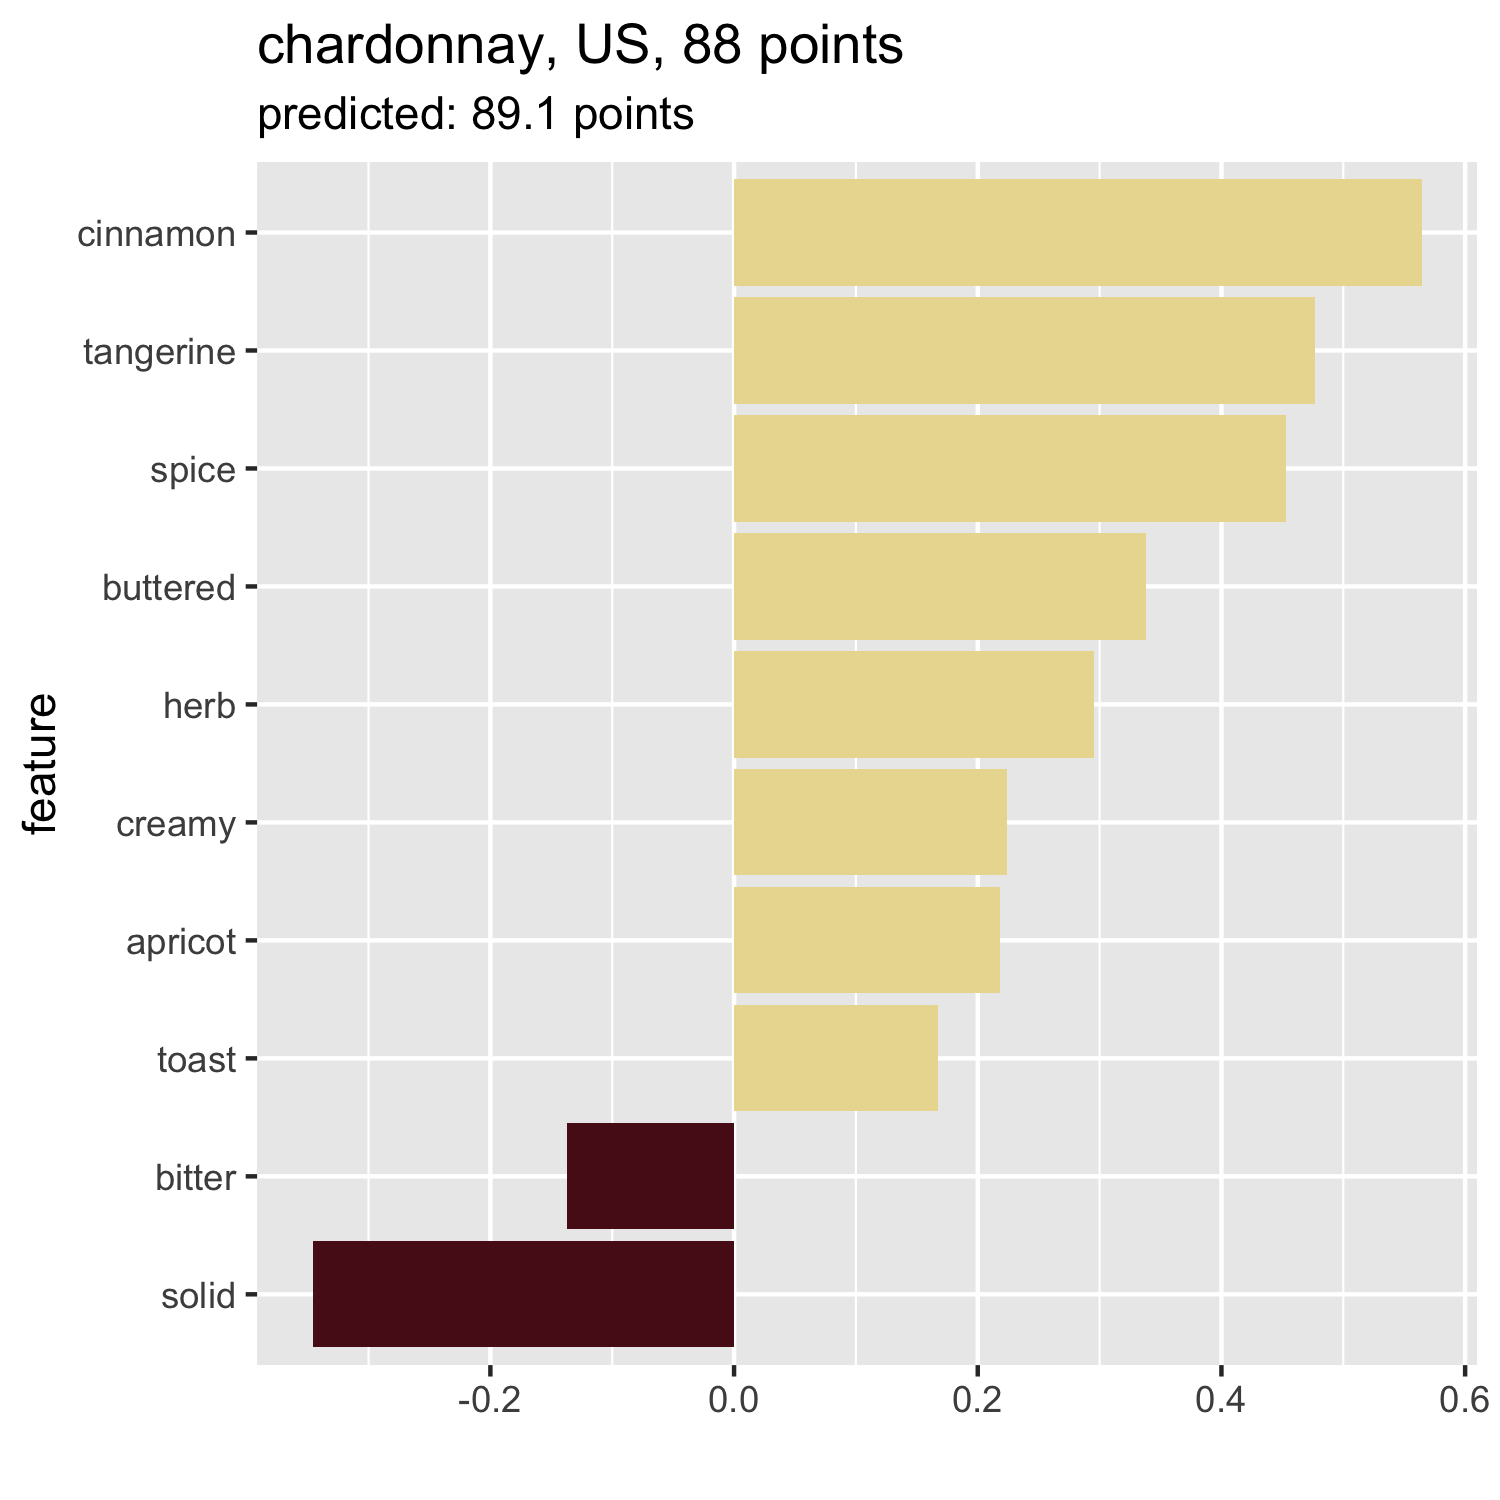
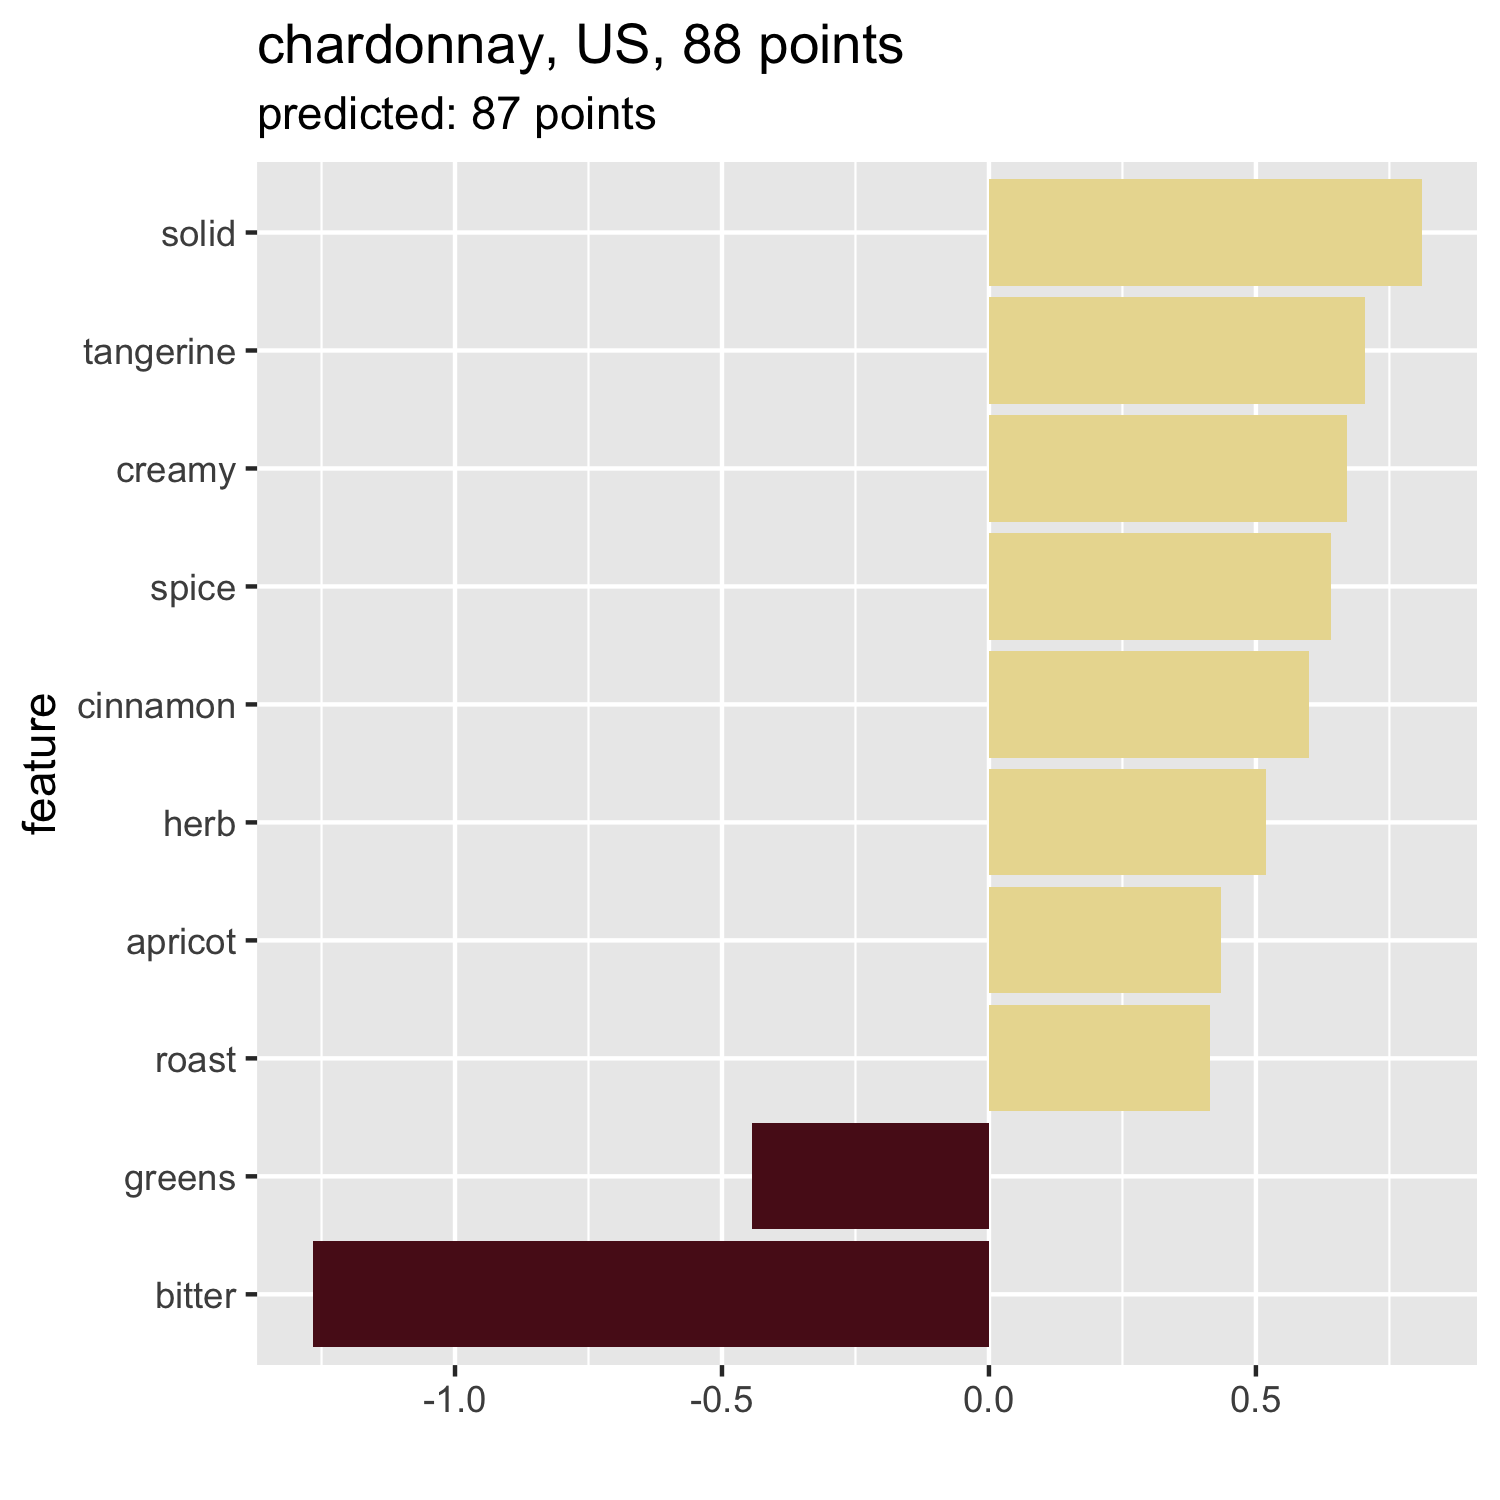
Split into test and train

diff --git a/2019-04-10_melburn-wine.html b/2019-04-10_melburn-wine.html
@@ -400,6 +400,19 @@ wine_2grams %&gt;%
 
 ---
 class: inverse
+## Train and test
+
+We're about to do some modelling, so let's prepare our train and test sets.
+
+
+```r
+wine_split &lt;- rsample::initial_split(wine, strata = "colour", p = 0.80)
+wine_train &lt;- rsample::training(wine_split)
+wine_test &lt;- rsample::testing(wine_split)
+```
+
+---
+class: inverse
 ## Vectorising
 
 We'll be loosely following [Shirin Glander's](https://shirinsplayground.netlify.com/2018/07/explaining_ml_models_code_text_lime/) approach to preprocessing here, which identifies the following steps:
@@ -462,15 +475,15 @@ stem_tokeniser(
 .pull-left[
 
 ```r
-wine_tokens &lt;- text2vec::itoken(
-  wine$description, 
+wine_train_tokens &lt;- text2vec::itoken(
+  wine_train$description, 
   preprocessor = tolower, 
   tokenizer = stem_tokeniser,
   progressbar = FALSE
 )
 
 vocabulary &lt;- text2vec::create_vocabulary(
-  wine_tokens, 
+  wine_train_tokens, 
   stopwords = tidytext::stop_words$word
 ) %&gt;% 
   text2vec::prune_vocabulary(
@@ -487,22 +500,22 @@ vocabulary
 ```
 
 ```
-## Number of docs: 129971 
+## Number of docs: 103978 
 ## 1149 stopwords: a, a's, able, about, above, according ... 
 ## ngram_min = 1; ngram_max = 1 
 ## Vocabulary: 
 ##            term term_count doc_count
-##   1:    graphit       1306      1300
-##   2:      anoth       1310      1301
-##   3: honeysuckl       1315      1307
-##   4:      excel       1326      1302
-##   5:     brambl       1331      1327
+##   1: underbrush       1040      1040
+##   2:  highlight       1046      1043
+##   3:      anoth       1052      1044
+##   4:     brambl       1053      1049
+##   5:     friend       1062      1051
 ##  ---                                
-## 359:        dri      26516     24436
-## 360:      black      29050     24481
-## 361:       ripe      29141     27234
-## 362:     tannin      32980     31959
-## 363:     cherri      33589     31328
+## 361:        dri      21221     19527
+## 362:      black      23339     19669
+## 363:       ripe      23373     21841
+## 364:     tannin      26392     25594
+## 365:     cherri      26923     25104
 ```
 ]
 
@@ -510,7 +523,7 @@ vocabulary
 class: inverse
 ## Vectoriser
 
-Our `vectoriser` will take an arbitrary string and map it to these 363 stemmed terms. 
+Our `vectoriser` will take an arbitrary string and map it to these 365 stemmed terms. 
 
 Any new terms will be **ignored**.
 
@@ -522,38 +535,24 @@ vectoriser &lt;- vocabulary %&gt;% text2vec::vocab_vectorizer()
 ---
 ## Document term matrices
 
-* Every column is one of our 363 terms
+* Every column is one of our 365 terms
 * Every row is a wine review
 * Values are weighted by *term frequency–inverse document frequency (tf-idf)*
 
 
 ```r
-map_to_dtm &lt;- function(text, vectorizer = vectoriser) {
-  vocab &lt;- text2vec::itoken(
-    text, 
-    preprocess_function = tolower, 
-    tokenizer = stem_tokeniser,
-    progressbar = FALSE)
+wine_train_dtm &lt;- text2vec::create_dtm(wine_train_tokens, vectorizer = vectoriser)
+tfidf = text2vec::TfIdf$new()
+wine_train_dtm = tfidf$fit_transform(wine_train_dtm)
+dim(wine_train_dtm)
+```
 
-  dtm &lt;- text2vec::create_dtm(vocab, vectorizer = vectorizer)
-
-  tfidf = text2vec::TfIdf$new()
-  text2vec::fit_transform(dtm, tfidf)
-}
+```
+## [1] 103978    365
 ```
 
 ---
 ## Document term matrices
-
-
-```r
-wine_dtm &lt;- wine$description %&gt;% map_to_dtm
-wine_dtm %&gt;% dim
-```
-
-```
-## [1] 129971    363
-```
 
 
 ```r
@@ -564,16 +563,35 @@ paste0('&gt; ', wine[1,]$description) %&gt;% cat
 
 
 ```r
-tail(wine_dtm[1,], 20)
+tail(as.matrix(wine_train_dtm)[1,], 21)
 ```
 
 ```
-##      soft      appl    textur     offer     sweet      plum     light 
-## 0.0000000 0.1886876 0.0000000 0.1767235 0.0000000 0.0000000 0.0000000 
-##      nose       oak     berri       red     fresh      rich     spice 
+##    balanc      soft      appl    textur     offer     sweet     light 
 ## 0.0000000 0.0000000 0.0000000 0.0000000 0.0000000 0.0000000 0.0000000 
-##      note       dri     black      ripe    tannin    cherri 
-## 0.0000000 0.2891878 0.0000000 0.0000000 0.0000000 0.0000000
+##      plum      nose       oak     berri       red     fresh      rich 
+## 0.0000000 0.0000000 0.0000000 0.1663115 0.1582522 0.0000000 0.0000000 
+##     spice      note       dri     black      ripe    tannin    cherri 
+## 0.0000000 0.0000000 0.0000000 0.0000000 0.1300287 0.1168152 0.0000000
+```
+
+---
+## Mapping new data to a DTM
+
+The vocabulary and document frequency is determined **only** by the training set. If we get a new observation, it has to conform.
+
+```r
+map_to_dtm &lt;- function(text) {
+  tokens &lt;- text2vec::itoken(
+    text, 
+    preprocess_function = tolower, 
+    tokenizer = stem_tokeniser,
+    progressbar = FALSE
+  )
+
+  dtm &lt;- text2vec::create_dtm(tokens, vectoriser)
+  tfidf$transform(dtm) # transform uses the tfidf already fitted
+}
 ```
 
 ---
@@ -589,25 +607,21 @@ xgb &lt;- xgboost::xgb.train(
     eval_metric = "rmse"
   ),
   data = xgboost::xgb.DMatrix(
-    wine_dtm, 
-    label = wine$points
+    wine_train_dtm, 
+    label = wine_train$points
   ),
   nrounds = 1000
 )
 ```
 
 ---
+class: inverse
 ## LIME
 
 .pull-left[
-
-```r
-wine_explainer &lt;- lime::lime(
-  wine$description,
-  xgb,
-  preprocess = map_to_dtm
-)
-```
+&lt;center&gt;
+&lt;img src="lime-logo.png" alt="The logo for the lime package for R. It's a green hexagonal logo that looks like the inside of a lime fruit." style="width: 40%; height: 40%;"&gt;&lt;/img&gt;
+&lt;/center&gt;
 ]
 
 .pull-right[
@@ -623,9 +637,17 @@ wine_explainer &lt;- lime::lime(
 *lime-rick* by Mara Averick
 ]
 
-&lt;center&gt;
-&lt;img src="lime-logo.png" alt="The logo for the lime package for R. It's a green hexagonal logo that looks like the inside of a lime fruit." style="width: 18%; height: 18%;"&gt;&lt;/img&gt;
-&lt;/center&gt;
+---
+## LIME
+
+
+```r
+wine_explainer &lt;- lime::lime(
+  wine$description,
+  xgb,
+  preprocess = map_to_dtm
+)
+```
 
 ---
 ## LIME
